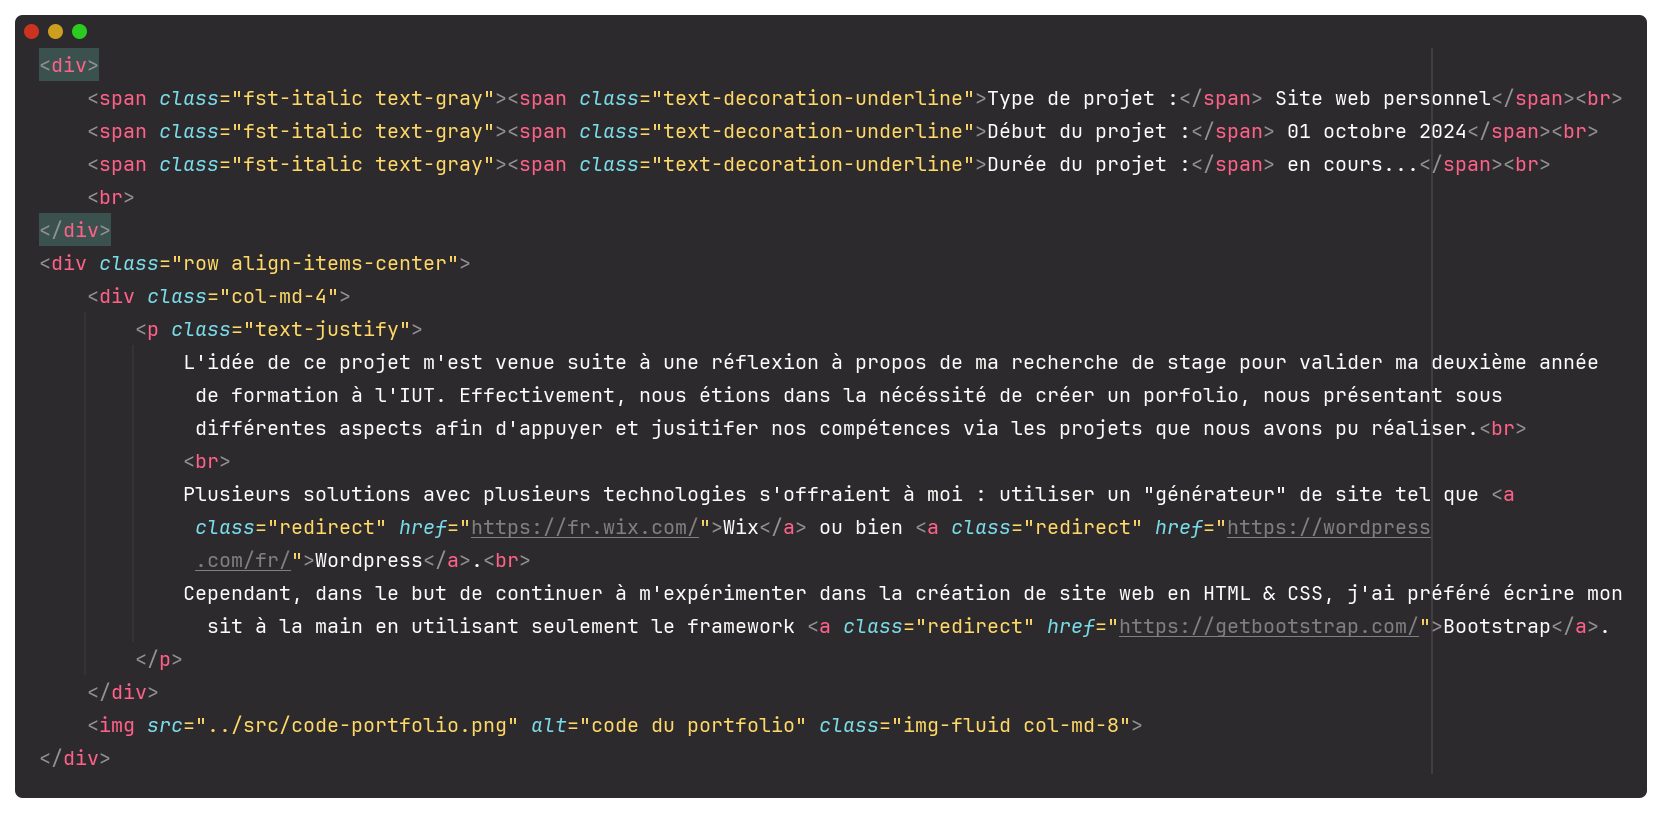
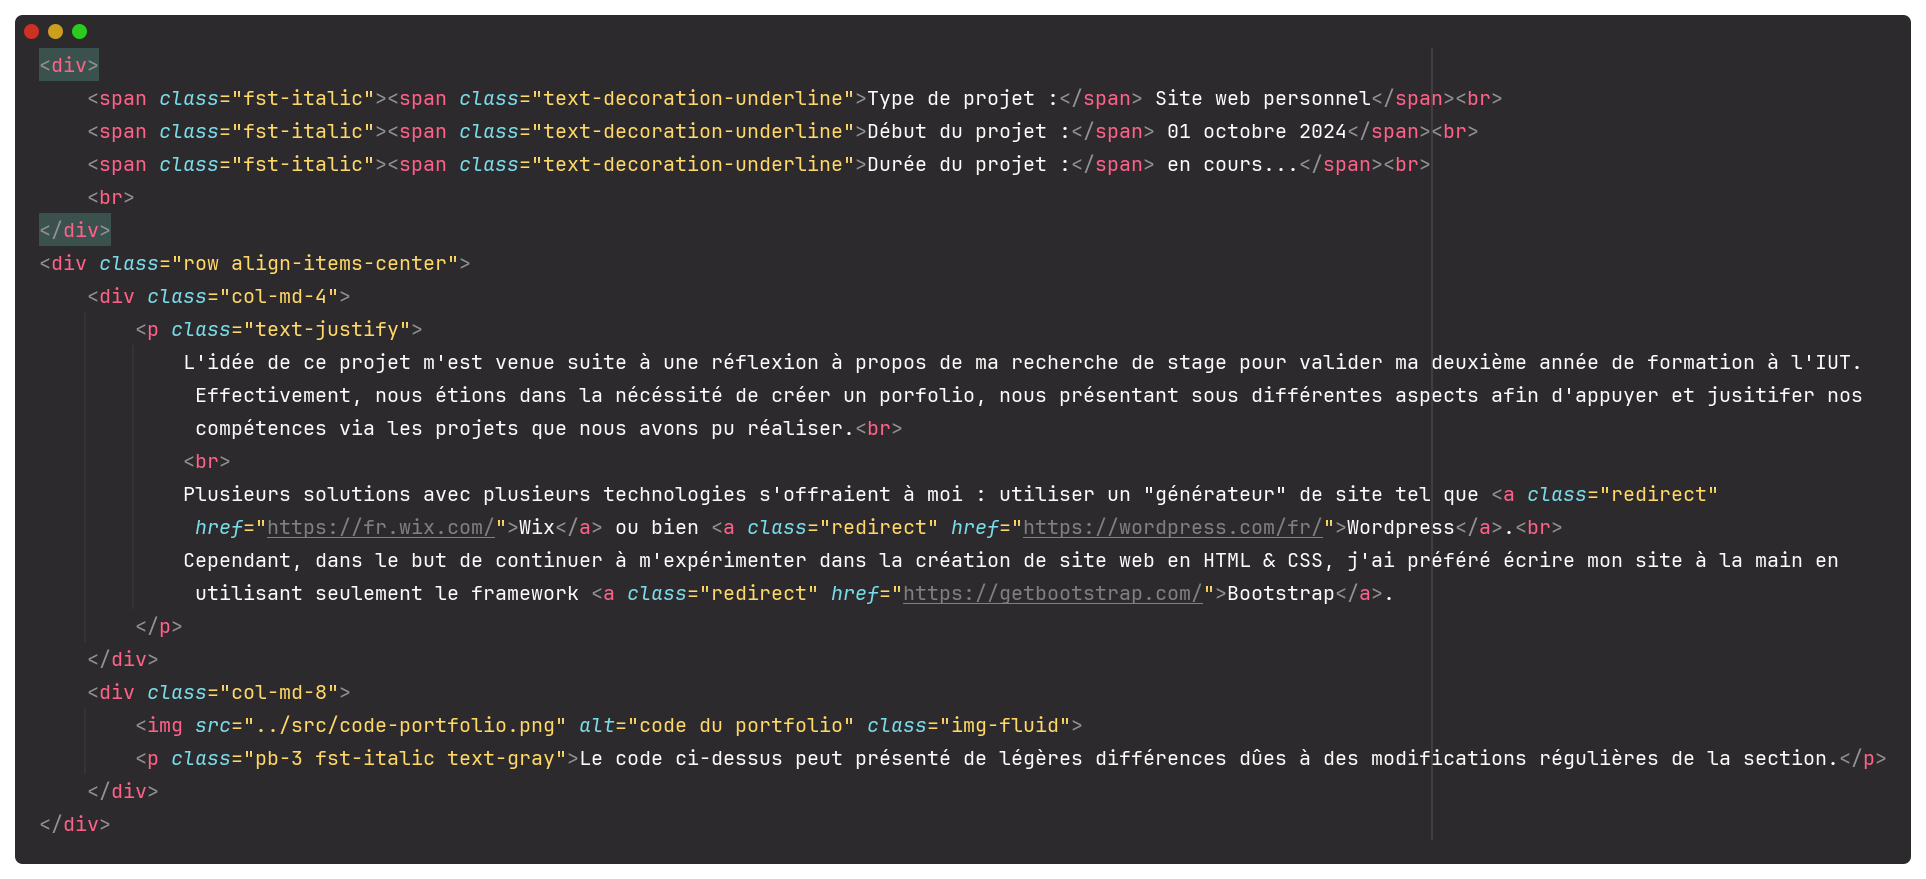
Retrait de l'animation sous les icônes de la navbar

diff --git a/projets/portfolio.html b/projets/portfolio.html
@@ -2,7 +2,7 @@
 <html lang="fr">
 <head>
     <meta charset="UTF-8">
-    <title>Estéban DESESSARD | Accueil</title>
+    <title>Estéban DESESSARD | Projets</title>
     <link href="https://fonts.googleapis.com/css2?family=Montserrat:ital,wght@0,100..900;1,100..900&display=swap" rel="stylesheet">
     <link rel="stylesheet" href="../CSS/styles.css">
     <link rel="stylesheet" href="https://cdnjs.cloudflare.com/ajax/libs/font-awesome/6.0.0-beta3/css/all.min.css">
@@ -33,17 +33,17 @@
                 </ul>
                 <ul class="navbar-nav ms-auto align-items-center">
                     <li class="nav-item">
-                        <a class="nav-link text-white" href="https://www.linkedin.com/in/e-desessard" target="_blank" title="LinkedIn">
+                        <a class="nav-link nav-icon text-white" href="https://www.linkedin.com/in/e-desessard" target="_blank" title="LinkedIn">
                             <i class="fab fa-linkedin"></i>
                         </a>
                     </li>
                     <li class="nav-item">
-                        <a class="nav-link text-white" href="https://github.com/CarteSD" target="_blank" title="GitHub">
+                        <a class="nav-link nav-icon text-white" href="https://github.com/CarteSD" target="_blank" title="GitHub">
                             <i class="fab fa-github"></i>
                         </a>
                     </li>
                     <li class="nav-item">
-                            <span class="nav-link text-white copy-icon" id="copyEmail" title="Copier l'adresse e-mail">
+                            <span class="nav-link nav-icon text-white copy-icon" id="copyEmail" title="Copier l'adresse e-mail">
                                 <i class="fas fa-envelope"></i>
                             </span>
                     </li>
@@ -61,9 +61,9 @@
 <main class="container">
     <h2 class="pb-2">Création de mon portfolio en ligne</h2>
     <div>
-        <span class="fst-italic text-gray"><span class="text-decoration-underline">Type de projet :</span> Site web personnel</span><br>
-        <span class="fst-italic text-gray"><span class="text-decoration-underline">Début du projet :</span> 01 octobre 2024</span><br>
-        <span class="fst-italic text-gray"><span class="text-decoration-underline">Durée du projet :</span> en cours...</span><br>
+        <span class="fst-italic"><span class="text-decoration-underline">Type de projet :</span> Site web personnel</span><br>
+        <span class="fst-italic"><span class="text-decoration-underline">Début du projet :</span> 01 octobre 2024</span><br>
+        <span class="fst-italic"><span class="text-decoration-underline">Durée du projet :</span> en cours...</span><br>
         <br>
     </div>
     <div class="row align-items-center">
@@ -72,15 +72,20 @@
                 L'idée de ce projet m'est venue suite à une réflexion à propos de ma recherche de stage pour valider ma deuxième année de formation à l'IUT. Effectivement, nous étions dans la nécéssité de créer un porfolio, nous présentant sous différentes aspects afin d'appuyer et jusitifer nos compétences via les projets que nous avons pu réaliser.<br>
                 <br>
                 Plusieurs solutions avec plusieurs technologies s'offraient à moi : utiliser un "générateur" de site tel que <a class="redirect" href="https://fr.wix.com/">Wix</a> ou bien <a class="redirect" href="https://wordpress.com/fr/">Wordpress</a>.<br>
-                Cependant, dans le but de continuer à m'expérimenter dans la création de site web en HTML & CSS, j'ai préféré écrire mon sit à la main en utilisant seulement le framework <a class="redirect" href="https://getbootstrap.com/">Bootstrap</a>.
+                Cependant, dans le but de continuer à m'expérimenter dans la création de site web en <span class="highlight">HTML & CSS</span> avec quelques animations en <span class="highlight">JavaScript</span>, j'ai préféré écrire mon site à la main en utilisant seulement le framework <span class="highlight"><a class="redirect" href="https://getbootstrap.com/">Bootstrap</a></span>.<br>
+                <br>
+                L'entièreté de ce projet a été réalisé sur l'IDE <span class="highlight"><a class="redirect" href="https://www.jetbrains.com/fr-fr/webstorm/">WebStorm</a></span> de la suite JetBrains et l'outil de versionning <span class="highlight"><a class="redirect" href="https://git-scm.com/">Git</a></span>.
             </p>
         </div>
-        <img src="../src/code-portfolio.png" alt="code du portfolio" class="img-fluid col-md-8 pb-3">
+        <div class="col-md-8">
+            <img src="../src/code-portfolio.png" alt="code du portfolio" class="img-fluid">
+            <p class="pb-3 fst-italic text-gray text-end">Le code ci-dessus peut présenté de légères différences dûes à des modifications régulières de la section.</p>
+        </div>
     </div>
     <div class="row align-items-center">
         <div>
             <p class="text-justify">
-                Cette création m'a permis d'approfondir ma connaissance de Bootstrap, qui est un outil que nous utilisons aussi à l'IUT afin de réaliser notre projet d'application web de mini-jeux en ligne.
+                Cette création m'a permis d'approfondir ma connaissance de <span class="highlight">Bootstrap</span>, qui est un outil que nous utilisons aussi à l'IUT afin de réaliser notre projet d'application web de mini-jeux en ligne. De plus, <span class="highlight">l'utilisation de Git</span> m'a permis de pouvoir travaillé depuis différentes machines sans avoir l'obligation de le transporter sur clé USB ou bien effectuer un dépôt manuel sur un Cloud.
             </p>
         </div>
     </div>

diff --git a/projets.html b/projets.html
@@ -33,19 +33,19 @@
                 </ul>
                 <ul class="navbar-nav ms-auto align-items-center">
                     <li class="nav-item">
-                        <a class="nav-link text-white" href="https://www.linkedin.com/in/e-desessard" target="_blank" title="LinkedIn">
+                        <a class="nav-link nav-icon text-white" href="https://www.linkedin.com/in/e-desessard" target="_blank" title="LinkedIn">
                             <i class="fab fa-linkedin"></i>
                         </a>
                     </li>
                     <li class="nav-item">
-                        <a class="nav-link text-white" href="https://github.com/CarteSD" target="_blank" title="GitHub">
+                        <a class="nav-link nav-icon text-white" href="https://github.com/CarteSD" target="_blank" title="GitHub">
                             <i class="fab fa-github"></i>
                         </a>
                     </li>
                     <li class="nav-item">
-                            <span class="nav-link text-white copy-icon" id="copyEmail" title="Copier l'adresse e-mail">
-                                <i class="fas fa-envelope"></i>
-                            </span>
+                        <span class="nav-link nav-icon text-white copy-icon" id="copyEmail" title="Copier l'adresse e-mail">
+                            <i class="fas fa-envelope"></i>
+                        </span>
                     </li>
                 </ul>
             </div>

diff --git a/accueil.html b/accueil.html
@@ -33,17 +33,17 @@
                     </ul>
                     <ul class="navbar-nav ms-auto align-items-center">
                         <li class="nav-item">
-                            <a class="nav-link text-white" href="https://www.linkedin.com/in/e-desessard" target="_blank" title="LinkedIn">
+                            <a class="nav-link nav-icon text-white" href="https://www.linkedin.com/in/e-desessard" target="_blank" title="LinkedIn">
                                 <i class="fab fa-linkedin"></i>
                             </a>
                         </li>
                         <li class="nav-item">
-                            <a class="nav-link text-white" href="https://github.com/CarteSD" target="_blank" title="GitHub">
+                            <a class="nav-link nav-icon text-white" href="https://github.com/CarteSD" target="_blank" title="GitHub">
                                 <i class="fab fa-github"></i>
                             </a>
                         </li>
                         <li class="nav-item">
-                            <span class="nav-link text-white copy-icon" id="copyEmail" title="Copier l'adresse e-mail">
+                            <span class="nav-link nav-icon text-white copy-icon" id="copyEmail" title="Copier l'adresse e-mail">
                                 <i class="fas fa-envelope"></i>
                             </span>
                         </li>

diff --git a/competences.html b/competences.html
@@ -33,17 +33,17 @@
                 </ul>
                 <ul class="navbar-nav ms-auto align-items-center">
                     <li class="nav-item">
-                        <a class="nav-link text-white" href="https://www.linkedin.com/in/e-desessard" target="_blank" title="LinkedIn">
+                        <a class="nav-link nav-icon text-white" href="https://www.linkedin.com/in/e-desessard" target="_blank" title="LinkedIn">
                             <i class="fab fa-linkedin"></i>
                         </a>
                     </li>
                     <li class="nav-item">
-                        <a class="nav-link text-white" href="https://github.com/CarteSD" target="_blank" title="GitHub">
+                        <a class="nav-link nav-icon text-white" href="https://github.com/CarteSD" target="_blank" title="GitHub">
                             <i class="fab fa-github"></i>
                         </a>
                     </li>
                     <li class="nav-item">
-                            <span class="nav-link text-white copy-icon" id="copyEmail" title="Copier l'adresse e-mail">
+                            <span class="nav-link nav-icon text-white copy-icon" id="copyEmail" title="Copier l'adresse e-mail">
                                 <i class="fas fa-envelope"></i>
                             </span>
                     </li>

diff --git a/formation.html b/formation.html
@@ -33,17 +33,17 @@
                 </ul>
                 <ul class="navbar-nav ms-auto align-items-center">
                     <li class="nav-item">
-                        <a class="nav-link text-white" href="https://www.linkedin.com/in/e-desessard" target="_blank" title="LinkedIn">
+                        <a class="nav-link nav-icon text-white" href="https://www.linkedin.com/in/e-desessard" target="_blank" title="LinkedIn">
                             <i class="fab fa-linkedin"></i>
                         </a>
                     </li>
                     <li class="nav-item">
-                        <a class="nav-link text-white" href="https://github.com/CarteSD" target="_blank" title="GitHub">
+                        <a class="nav-link nav-icon text-white" href="https://github.com/CarteSD" target="_blank" title="GitHub">
                             <i class="fab fa-github"></i>
                         </a>
                     </li>
                     <li class="nav-item">
-                            <span class="nav-link text-white copy-icon" id="copyEmail" title="Copier l'adresse e-mail">
+                            <span class="nav-link nav-icon text-white copy-icon" id="copyEmail" title="Copier l'adresse e-mail">
                                 <i class="fas fa-envelope"></i>
                             </span>
                     </li>

diff --git a/experiences.html b/experiences.html
@@ -33,17 +33,17 @@
         </ul>
         <ul class="navbar-nav ms-auto align-items-center">
           <li class="nav-item">
-            <a class="nav-link text-white" href="https://www.linkedin.com/in/e-desessard" target="_blank" title="LinkedIn">
+            <a class="nav-link nav-icon text-white" href="https://www.linkedin.com/in/e-desessard" target="_blank" title="LinkedIn">
               <i class="fab fa-linkedin"></i>
             </a>
           </li>
           <li class="nav-item">
-            <a class="nav-link text-white" href="https://github.com/CarteSD" target="_blank" title="GitHub">
+            <a class="nav-link nav-icon text-white" href="https://github.com/CarteSD" target="_blank" title="GitHub">
               <i class="fab fa-github"></i>
             </a>
           </li>
           <li class="nav-item">
-            <span class="nav-link text-white copy-icon" id="copyEmail" title="Copier l'adresse e-mail">
+            <span class="nav-link nav-icon text-white copy-icon" id="copyEmail" title="Copier l'adresse e-mail">
                 <i class="fas fa-envelope"></i>
             </span>
           </li>

diff --git a/SCSS/custom.scss b/SCSS/custom.scss
@@ -49,7 +49,7 @@ $custom-yellow: #c0aa00;
   padding-bottom: 10px; // Créer de l'espace pour la barre jaune
   transition: color 0.3s;
 
-  &::before {
+  &:not(.nav-icon)::before {
     content: '';
     position: absolute;
     bottom: 0;
@@ -60,8 +60,8 @@ $custom-yellow: #c0aa00;
     transition: width 0.3s, left 0.3s; // Animation de la barre
   }
 
-  &.active::before,
-  &:hover::before {
+  &.active:not(.nav-icon)::before,
+  &:hover:not(.nav-icon)::before {
     width: 100%; // La barre occupe toute la largeur de l'élément
   }
 
@@ -84,8 +84,6 @@ $custom-yellow: #c0aa00;
     transition: color 0.3s, transform 0.3s;
   }
 }
-
-
 
 .notification {
   display: none; 
